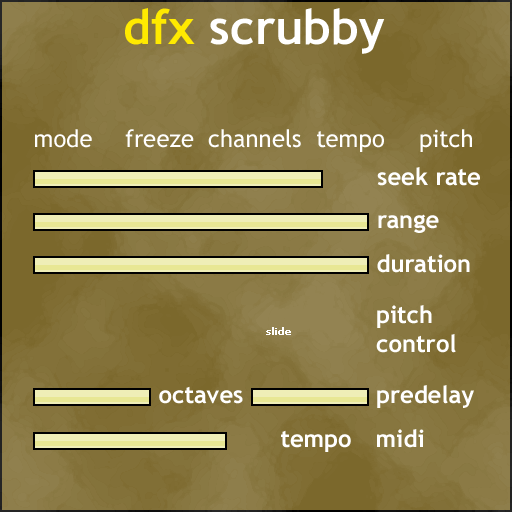
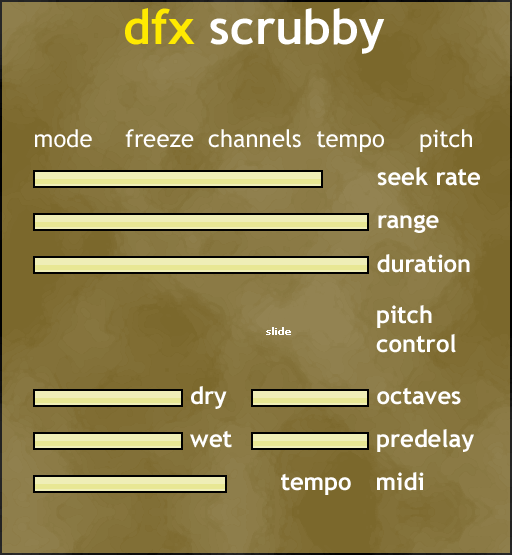
Scrubby: add "dry level" and "wet level" sliders to GUI

diff --git a/scrubby/gui/scrubbyeditor.cpp b/scrubby/gui/scrubbyeditor.cpp
@@ -40,7 +40,7 @@ constexpr long kRangeSliderOvershoot = 3;
 constexpr long kOctavesSliderWidth = 118 - 2;
 static long const kOctaveMaxSliderWidth = static_cast<long>((static_cast<float>(kOctave_MaxValue) / static_cast<float>((std::abs(kOctave_MinValue) + kOctave_MaxValue))) * static_cast<float>(kOctavesSliderWidth));
 static long const kOctaveMinSliderWidth = kOctavesSliderWidth - kOctaveMaxSliderWidth;
-constexpr long kOctaveMinSliderX = 33 + 1;
+constexpr long kOctaveMinSliderX = 251 + 1;
 static long const kOctaveMaxSliderX = kOctaveMinSliderX + kOctaveMinSliderWidth;
 
 //-----------------------------------------------------------------------------
@@ -49,36 +49,34 @@ enum
 	// positions
 	kSliderHeight = 28,
 
-#if 0
-	kMainSlidersOffsetY = 0,
-	kNotesStuffOffsetY = 0,
-#else
-	kMainSlidersOffsetY = -133,
-	kNotesStuffOffsetY = 128,
-#endif
-
 	kSeekRateSliderX = 33 + 1,
-	kSeekRateSliderY = 298 + kMainSlidersOffsetY,
+	kSeekRateSliderY = 165,
 	kSeekRateSliderWidth = 290 - 2,
 
 	kSeekRangeSliderX = 33 + 1,
-	kSeekRangeSliderY = 341 + kMainSlidersOffsetY,
+	kSeekRangeSliderY = 208,
 	kSeekRangeSliderWidth = 336 - 2,
 
 	kSeekDurSliderX = 33 + 1,
-	kSeekDurSliderY = 384 + kMainSlidersOffsetY,
+	kSeekDurSliderY = 251,
 	kSeekDurSliderWidth = 336 - 2,
 
-	kOctaveMinSliderY = 255 + kNotesStuffOffsetY,
+	kOctaveMinSliderY = 384,
 	kOctaveMaxSliderY = kOctaveMinSliderY,
 
+	kDryLevelSliderX = 33 + 1,
+	kDryLevelSliderY = kOctaveMinSliderY,
+	kWetLevelSliderX = kDryLevelSliderX,
+	kWetLevelSliderY = kDryLevelSliderY + 43,
+	kMixLevelSliderWidth = 150 - 2,
+
 	kTempoSliderX = 33 + 1,
-	kTempoSliderY = 427,
+	kTempoSliderY = 470,
 	kTempoSliderWidth = 194 - 2,
 
-	kPredelaySliderX = 251 + 1,
-	kPredelaySliderY = 383,
-	kPredelaySliderWidth = 118 - 2,
+	kPredelaySliderX = kOctaveMinSliderX,
+	kPredelaySliderY = kOctaveMinSliderY + 43,
+	kPredelaySliderWidth = kOctavesSliderWidth,
 
 	kDisplayWidth = 90,
 	kDisplayWidth_big = 117,  // for seek rate
@@ -98,21 +96,21 @@ enum
 	kPitchConstraintButtonY = 60,
 
 	kLittleTempoSyncButtonX = 327,
-	kLittleTempoSyncButtonY = 303 + kMainSlidersOffsetY,
+	kLittleTempoSyncButtonY = 170,
 
 	kTempoAutoButtonX = 231,
-	kTempoAutoButtonY = 432,
+	kTempoAutoButtonY = 475,
 
 	kKeyboardX = 33,
-	kKeyboardY = 164 + kNotesStuffOffsetY,
+	kKeyboardY = 292,
 
 	kTransposeDownButtonX = 263,
-	kTransposeDownButtonY = 164 + kNotesStuffOffsetY,
+	kTransposeDownButtonY = 292,
 	kTransposeUpButtonX = kTransposeDownButtonX,
 	kTransposeUpButtonY = kTransposeDownButtonY + 46,
 
 	kMajorChordButtonX = 299,
-	kMajorChordButtonY = 164 + kNotesStuffOffsetY,
+	kMajorChordButtonY = 292,
 	kMinorChordButtonX = kMajorChordButtonX,
 	kMinorChordButtonY = kMajorChordButtonY + 19,
 	kAllNotesButtonX = kMajorChordButtonX,
@@ -121,12 +119,12 @@ enum
 	kNoneNotesButtonY = kMajorChordButtonY + 61,
 
 	kMidiLearnButtonX = 433,
-	kMidiLearnButtonY = 292 + kNotesStuffOffsetY,
+	kMidiLearnButtonY = 463,
 	kMidiResetButtonX = kMidiLearnButtonX,
 	kMidiResetButtonY = kMidiLearnButtonY + 19,
 
 	kHelpX = 4,
-	kHelpY = 465,
+	kHelpY = 508,
 
 	kDestroyFXLinkX = 247,
 	kDestroyFXLinkY = 47,
@@ -165,6 +163,8 @@ enum
 	kHelp_Tempo,
 	kHelp_TempoAuto,
 	kHelp_PreDelay,
+	kHelp_DryLevel,
+	kHelp_WetLevel,
 	kHelp_MidiLearn,
 	kHelp_MidiReset,
 	kNumHelps
@@ -235,6 +235,12 @@ to lock the tempo that Scrubby uses to that of the host.)DELIM",
 	R"DELIM(predelay:  compensate for Scrubby's (possible) output delay
 Scrubby zips around a delay buffer, which can create some perceived latency.  
 This asks your host to predelay by a % of the seek range.  (not in all hosts))DELIM", 
+	// dry level
+	R"DELIM(dry level:  the mix level of the unprocessed input audio
+Mix in as much of the original, unprocessed audio as you wish.)DELIM", 
+	// wet level
+	R"DELIM(wet level:  the mix level of the processed audio
+Adjust the amount of Scrubby's zoomies that is mixed into the audio output.)DELIM", 
 	// MIDI learn
 	R"DELIM(MIDI learn:  toggle "MIDI learn" mode for CC control of parameters
 When this is enabled, you can click on a parameter control and then the next 
@@ -501,6 +507,14 @@ long ScrubbyEditor::OpenEditor()
 	pos.set(kPredelaySliderX, kPredelaySliderY, kPredelaySliderWidth, kSliderHeight);
 	emplaceControl<DGSlider>(this, kPredelay, pos, dfx::kAxis_Horizontal, sliderHandleImage)->setAlternateHandle(sliderHandleImage_glowing);
 
+	// dry level
+	pos.set(kDryLevelSliderX, kDryLevelSliderY, kMixLevelSliderWidth, kSliderHeight);
+	emplaceControl<DGSlider>(this, kDryLevel, pos, dfx::kAxis_Horizontal, sliderHandleImage)->setAlternateHandle(sliderHandleImage_glowing);
+
+	// wet level
+	pos.set(kWetLevelSliderX, kWetLevelSliderY, kMixLevelSliderWidth, kSliderHeight);
+	emplaceControl<DGSlider>(this, kWetLevel, pos, dfx::kAxis_Horizontal, sliderHandleImage)->setAlternateHandle(sliderHandleImage_glowing);
+
 
 
 	//--create the displays---------------------------------------------
@@ -540,6 +554,16 @@ long ScrubbyEditor::OpenEditor()
 	// predelay
 	pos.set(kPredelaySliderX + kPredelaySliderWidth - kDisplayWidth - kDisplayInsetX, kPredelaySliderY - kDisplayHeight + kDisplayInsetY, kDisplayWidth, kDisplayHeight);
 	emplaceControl<DGTextDisplay>(this, kPredelay, pos, predelayDisplayProc, nullptr, nullptr, dfx::TextAlignment::Right, kDisplayTextSize, kBrownTextColor, kDisplayFont);
+
+	// dry level
+	pos.set(kDryLevelSliderX + kMixLevelSliderWidth - kDisplayWidth - kDisplayInsetX, kDryLevelSliderY - kDisplayHeight + kDisplayInsetY, kDisplayWidth, kDisplayHeight);
+	auto textDisplay = emplaceControl<DGTextDisplay>(this, kDryLevel, pos, DGTextDisplay::valueToTextProc_LinearToDb, nullptr, nullptr, dfx::TextAlignment::Right, kDisplayTextSize, kBrownTextColor, kDisplayFont);
+	textDisplay->setTextToValueProc(DGTextDisplay::textToValueProc_DbToLinear);
+
+	// wet level
+	pos.set(kWetLevelSliderX + kMixLevelSliderWidth - kDisplayWidth - kDisplayInsetX, kWetLevelSliderY - kDisplayHeight + kDisplayInsetY, kDisplayWidth, kDisplayHeight);
+	textDisplay = emplaceControl<DGTextDisplay>(this, kWetLevel, pos, DGTextDisplay::valueToTextProc_LinearToDb, nullptr, nullptr, dfx::TextAlignment::Right, kDisplayTextSize, kBrownTextColor, kDisplayFont);
+	textDisplay->setTextToValueProc(DGTextDisplay::textToValueProc_DbToLinear);
 
 
 
@@ -927,6 +951,10 @@ void ScrubbyEditor::mouseovercontrolchanged(IDGControl* currentControlUnderMouse
 					return kHelp_TempoAuto;
 				case kPredelay:
 					return kHelp_PreDelay;
+				case kDryLevel:
+					return kHelp_DryLevel;
+				case kWetLevel:
+					return kHelp_WetLevel;
 				default:
 					break;
 			}
